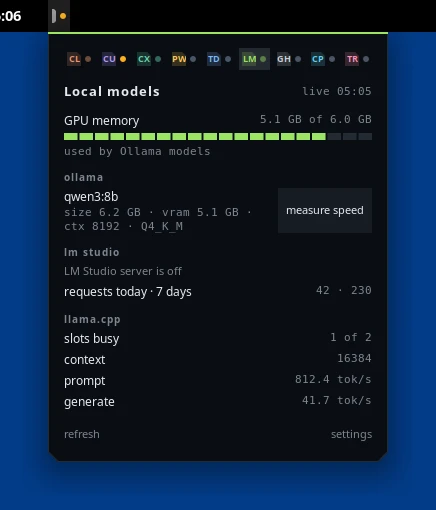
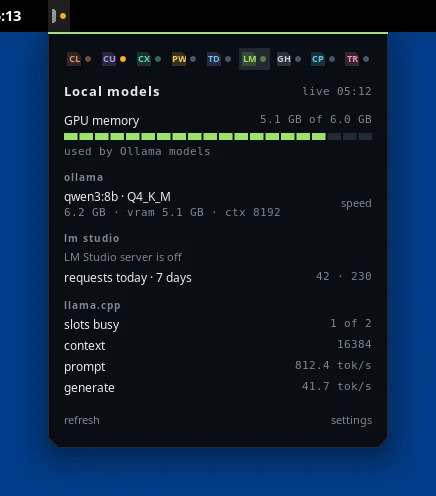
fix: plain speed action and one-line model details in the models deck

diff --git a/modules/models.js b/modules/models.js
@@ -167,15 +167,14 @@ export class ModelsModule extends Module {
             if (backend === 'LM Studio' && this._logs?.logs)
                 section.add_child(ui.splitRow('requests today · 7 days', `${this._logs.today} · ${this._logs.week}`, 'ledge-figure'));
             for (const m of state.models) {
-                const parts = [`size ${formatBytes(m.size)}`];
+                const parts = [formatBytes(m.size)];
                 if (backend === 'Ollama') parts.push(`vram ${formatBytes(m.vram)}`);
                 if (m.context) parts.push(`ctx ${m.context}`);
-                if (m.quant) parts.push(m.quant);
                 if (this._speeds.has(m.name)) parts.push(this._speeds.get(m.name));
                 const trailing = backend === 'Ollama'
-                    ? [ui.button(this._measuring.has(m.name) ? 'measuring…' : 'measure speed', () => this._measure(m.name), 'ledge-small-action')]
+                    ? [ui.button(this._measuring.has(m.name) ? 'measuring' : 'speed', () => this._measure(m.name), 'ledge-action')]
                     : [];
-                section.add_child(ui.row(m.name, {detail: parts.join(' · '), trailing, mono: true}));
+                section.add_child(ui.row(m.quant ? `${m.name} · ${m.quant}` : m.name, {detail: parts.join(' · '), trailing, mono: true}));
             }
         }
         if (this._llama) {

diff --git a/modules/usage.js b/modules/usage.js
@@ -368,7 +368,7 @@ class UsageModule extends Module {
             section.add_child(ui.splitRow('today', money(spend.today), 'ledge-figure'));
             section.add_child(ui.splitRow('last 7 days', money(spend.week), 'ledge-figure'));
             for (const project of spend.projects ?? [])
-                section.add_child(ui.splitRow(project.name, money(project.cost), 'ledge-caption'));
+                section.add_child(ui.splitRow(project.name, money(project.cost), 'ledge-figure'));
             section.add_child(ui.label(source.costs.label, 'ledge-caption'));
             body.add_child(section);
         }
